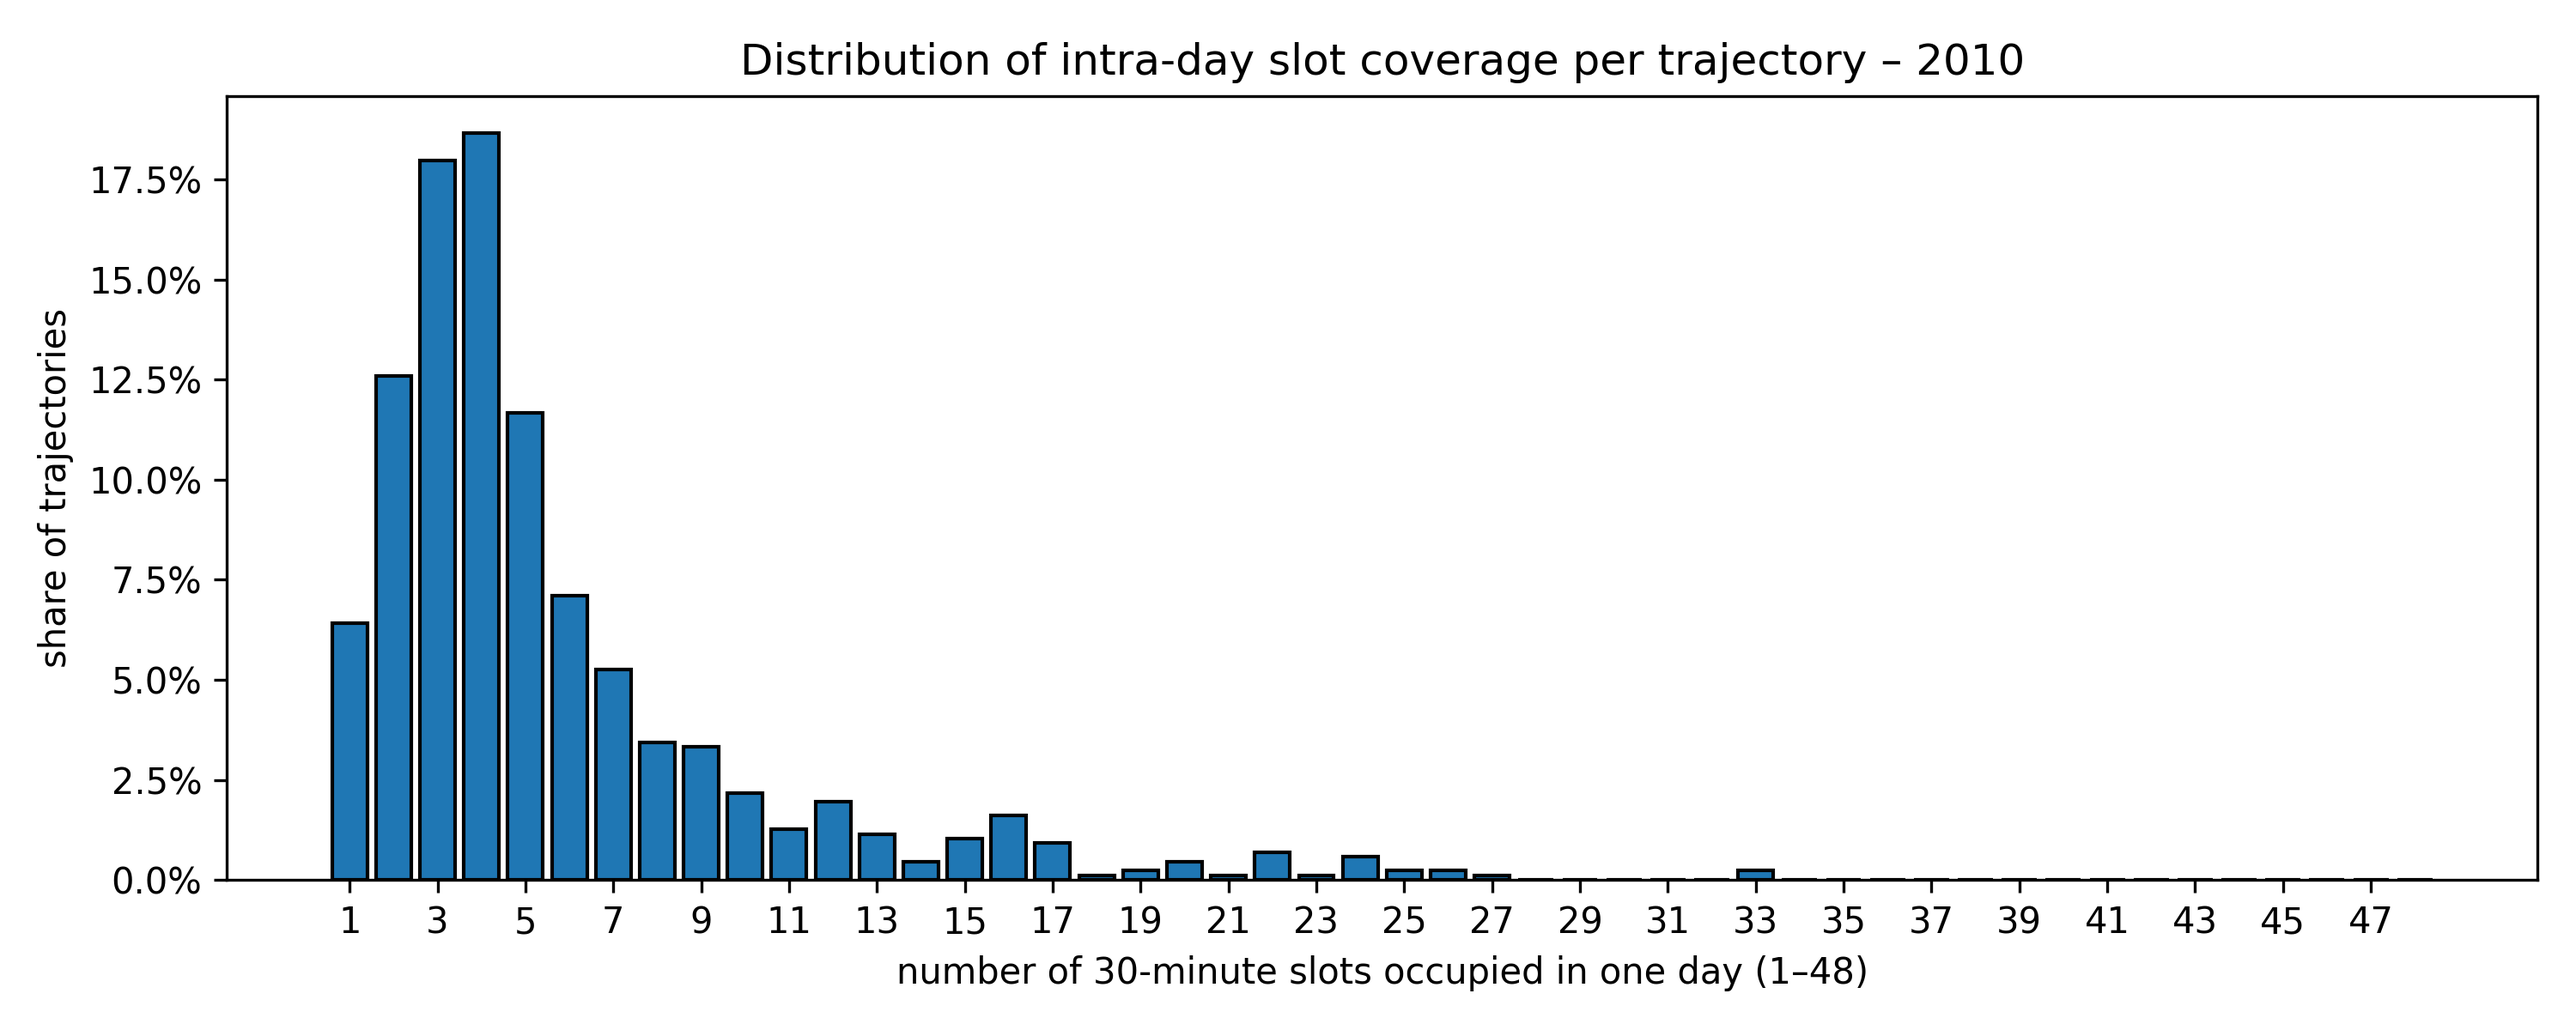
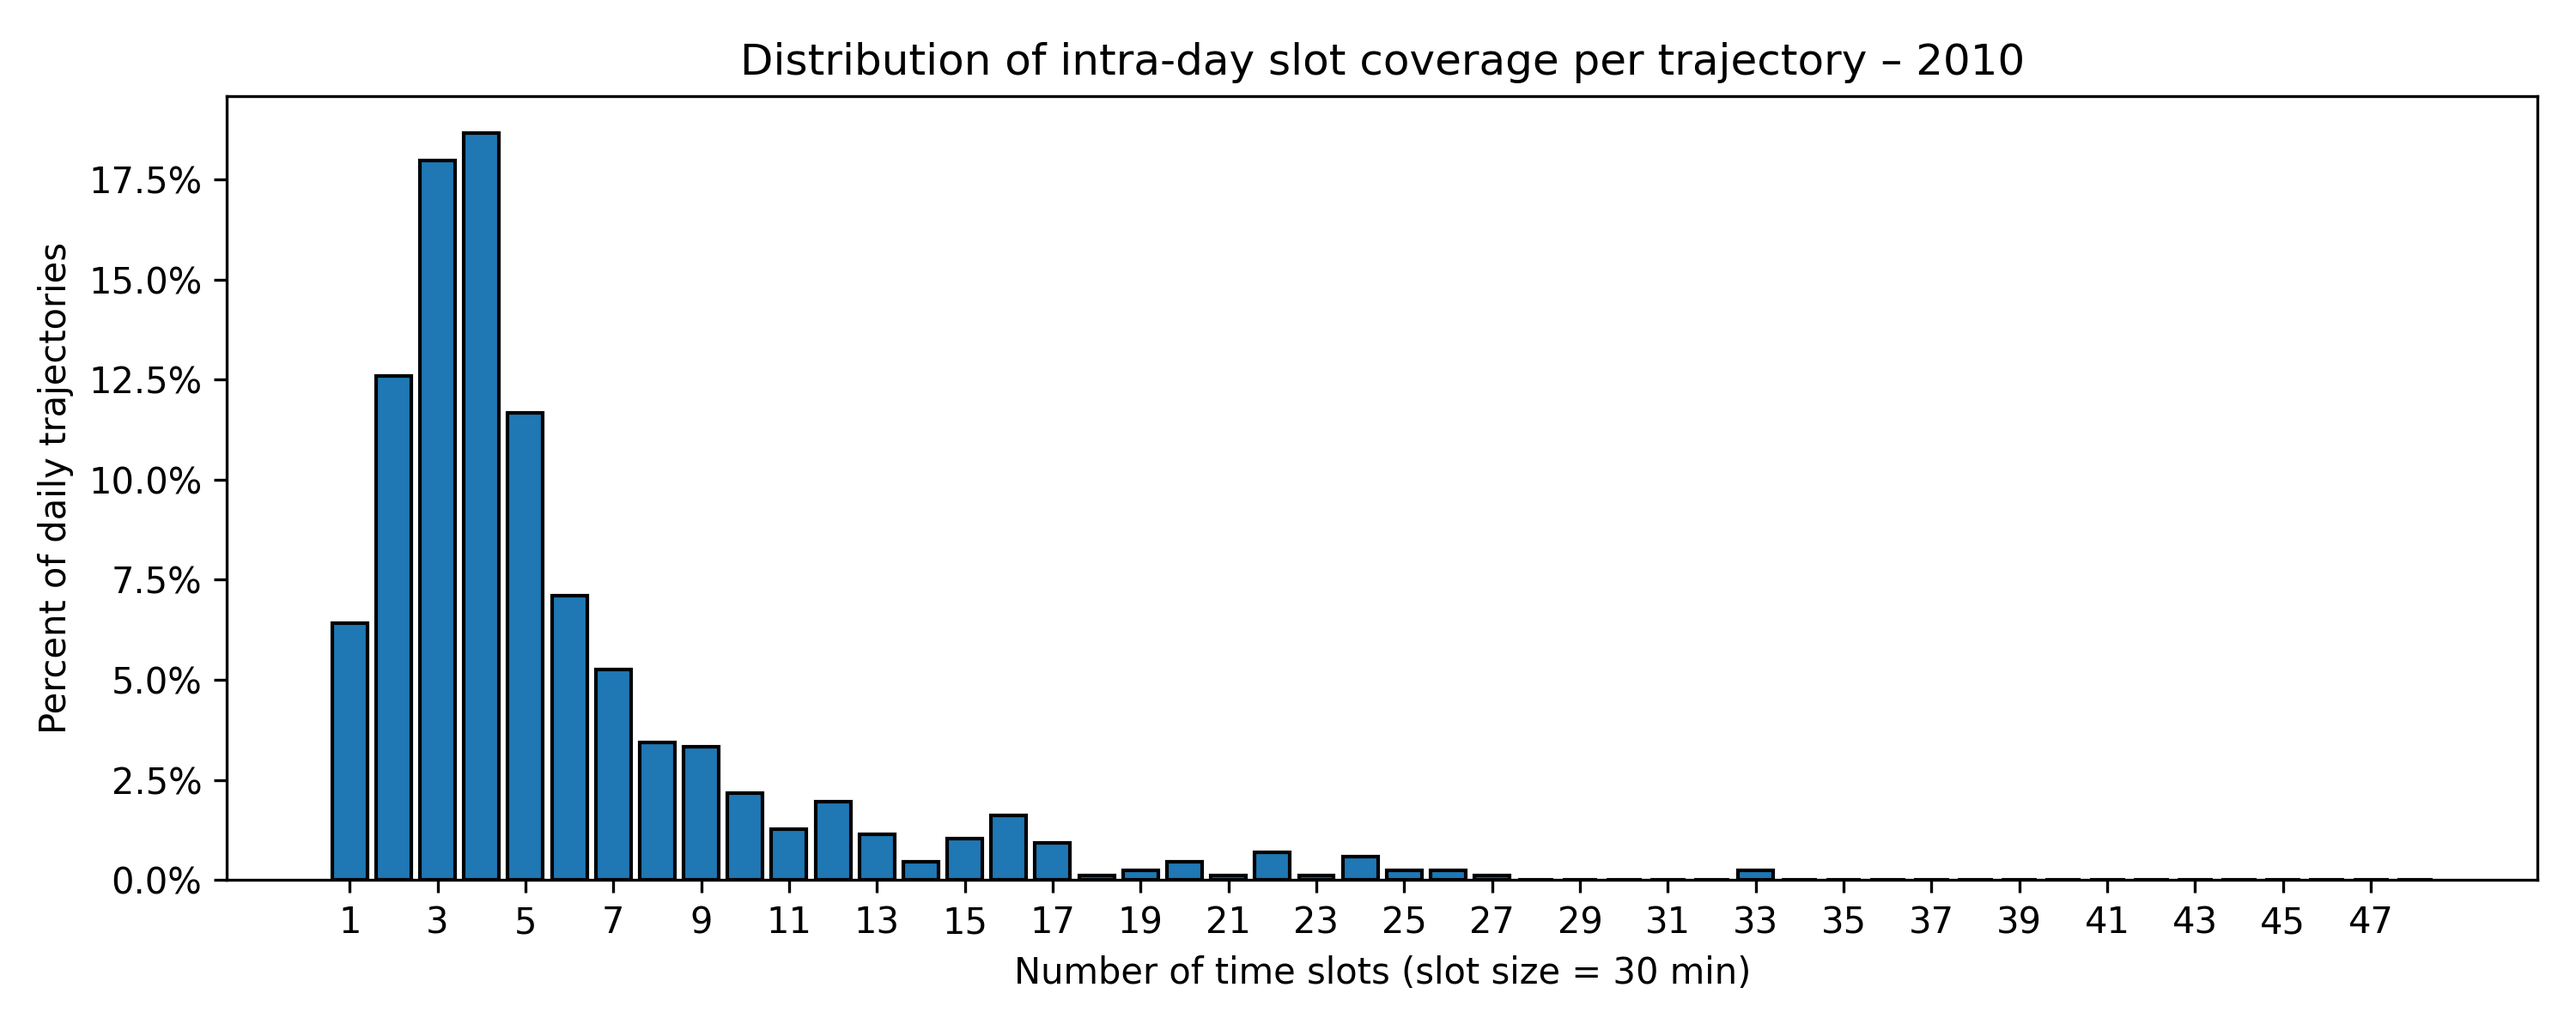
update datapage_geolife.md

Changed region(s): [[0.0, 0.2467, 0.031, 0.7092], [0.341, 0.925, 0.744, 0.9558]]

diff --git a/datapage_geolife.md b/datapage_geolife.md
@@ -73,7 +73,7 @@
 | 75th percentile   |  2788.00 |  214.00 | 2696.25 | 3525.25 | 1711.25 | 3085.00 | 1553.50 |
 | max               | 59769.00 | 20362.00 | 59769.00 | 50933.00 | 23799.00 | 56780.00 | 44808.00 |
 
-**Findings**: From 2007 to 2012, the number of records each device sends per day changes a lot. On average a device logs about 2,232 records, but half the devices stay below 1,183 while the busiest day reaches 59,769. The mean is only 382 in 2007 (most days fall between 37 and 214 records). The average daily number of records per device climbs to 2,711 in 2009, drops to 1,620 in 2010, peaks at 2,881 in 2011, and then drops to 1,490 in 2012. The time-series plot shows the same story — many sharp spikes instead of a smooth curve—so the data jumps day to day and year to year rather than rising or falling steadily.
+**Findings**: From 2007 to 2012, the number of records per device per day changes a lot. On average a device logs about 2,232 records, but half the devices stay below 1,183 while at some day reaches 59,769. The mean is only 382 in 2007 (most days fall between 37 and 214 records). The average daily number of records per device climbs to 2,711 in 2009, drops to 1,620 in 2010, peaks at 2,881 in 2011, and then drops to 1,490 in 2012. The time-series plot shows the same story — many sharp spikes instead of a smooth curve — so the data jumps day to day and year to year rather than rising or falling steadily.
 
 ---
 
@@ -94,7 +94,7 @@ Temporal sparsity was investigated via two measures: intra-day temporal occupanc
 ![trajectory_slot_coverage_hist](figures_geolife/trajectory_slot_coverage_overall.png)
 
 **Figure Description**:
-The horizontal axis is each number of 30-minute time slots in one day (there are 48 30-minute time slots in one day, ranging from 1 to 48), and the vertical axis is the percent (share) of daily trajectories recorded in the corresponding number of time slots to the total trajectories. We plot the distribution of the intra-day occupancy for each year and whole time period (all years).
+The horizontal axis is each number of 30-minute time slots in one day (there are 48 30-minute time slots in one day, ranging from 1 to 48), and the vertical axis is the percent of daily trajectories recorded in the corresponding number of time slots to the total trajectories. We plot the distribution of the intra-day occupancy for each year and whole time period (all years).
 
 **Summary statistics** of *Intra-day occupancy*: number of time slots in one day a device was observed (slot size = 30 min, total 48 slots in one day)
 
@@ -113,7 +113,7 @@ The horizontal axis is each number of 30-minute time slots in one day (there are
 
 ### 2.2 Inter-day Temporal Occupancy
 
-**Description**: Inter-day temporal occupancy measures the number of days within a time period (e.g., 6 months or one year) during which a device was observed at least once (in the day). This measure is to capture the data sparsity across different days within a time period. The GeoLife data was collected from April 2007 to August 2012 (total 1980 days), thus the inter-day occupancy we calculated for the whole study period (all years) are out of the total 1980 days, for 2007 and 2012 it is out of a partial year for 2007 (275 days) and 2012 (244 days), and for the other years (2008-2011), it is out of full one year.
+**Description**: Inter-day temporal occupancy measures the number of days within a time period (e.g., 6 months, one year, or the time period covered by the dataset) during which a device was observed at least once (in the day). This measure is to capture the data sparsity across different days within a time period. The GeoLife data was collected from April 2007 to August 2012 (total 1980 days), thus the inter-day occupancy we calculated for the whole study period (all years) are out of the total 1980 days, for 2007 and 2012 it is out of a partial year for 2007 (275 days) and 2012 (244 days), and for the other years (2008-2011), it is out of full one year.
 
 | Figure | Figure |
 |--------|--------|
@@ -177,13 +177,13 @@ The horizontal axis is the number of days each device (user_id) was observed dur
 
 | Statistic | Value (meters) |
 |-----------|-----------|
-| Mean | 73.24063 |
+| Mean | 73.24 |
 | Standard deviation | 11,919.00 |
 | Minimum | 0 |
-| 25th percentile | 2.369673 |
-| Median | 8.731946 |
-| 75th percentile | 17.64321 |
-| 95th percentile | 66.7 |
+| 25th percentile | 2.36 |
+| Median | 8.73 |
+| 75th percentile | 17.64 |
+| 95th percentile | 66.70 |
 | 99th percentile | 190.95 |
 | Maximum | 11,129,650 |
 

diff --git a/LBS_data.md b/LBS_data.md
@@ -13,6 +13,17 @@ This page will explore some of the available open source LBS datasets.
 ### Data Description
 GeoLife data is a GPS trajectory dataset collected in (Microsoft Research Asia) GeoLife project by 182 users in a period of over three years (from April 2007 to August 2012). The majority of the data was created in Beijing, China (although this dataset is distributed in over 30 cities of China and even in some cities located in the USA and Europe). The GeoLife User Guide reported a variety of sampling rates: 91 percent of the trajectories are logged in a dense representation, e.g. every 1 to 5 seconds or every 5 to 10 meters per point.
 
+| Property | Metrics | Mean | Std | Min | 25% | 50% | 75% | Max |
+|----------|---------|------|----------|-----|-----|-----|-----|-----|
+| Data Stability | Number of devices per day | 5.93 | 6.24 | 1 | 2 | 3 | 8 | 29 |
+| Data Statility | Number of records per device per day | 2231.92 | 3443.03 | 1.00 | 457.00 | 1183.00 | 2788.00 | 59769.00 |
+| Temporal Sparsity | Intra-day occupancy (number of 30-min time slots observed in a day - out of 48 time slots) | 7.60 | 6.31 | 1 | 3 | 6 | 10 | 48 |
+| Temporal Sparsity | Inter-day occupancy (numbre of days observed within a time period - out of data period of 1980 days) | 174.41 | 318.56 | 1 | 11 | 71 | 167.50 | 1934 |
+| Sampling Rate | Temporal gap between consecutive points (seconds) | 109.61 | 46,652.38 | 0 | 1 | 2 | 5 | 1,257,394 |
+| Spatial Gap | Spatial gap between consecutive points (meters) | 73.24 | 11,919.00 | 0 | 2.36 | 8.73 | 17.64 | 11,129,650 |
+| Precision |  Spatial accuracy (radius) | n/a |
+
+
 [More detailed characteristics of GeoLife Data >>](datapage_geolife.md) 
 
 ---
